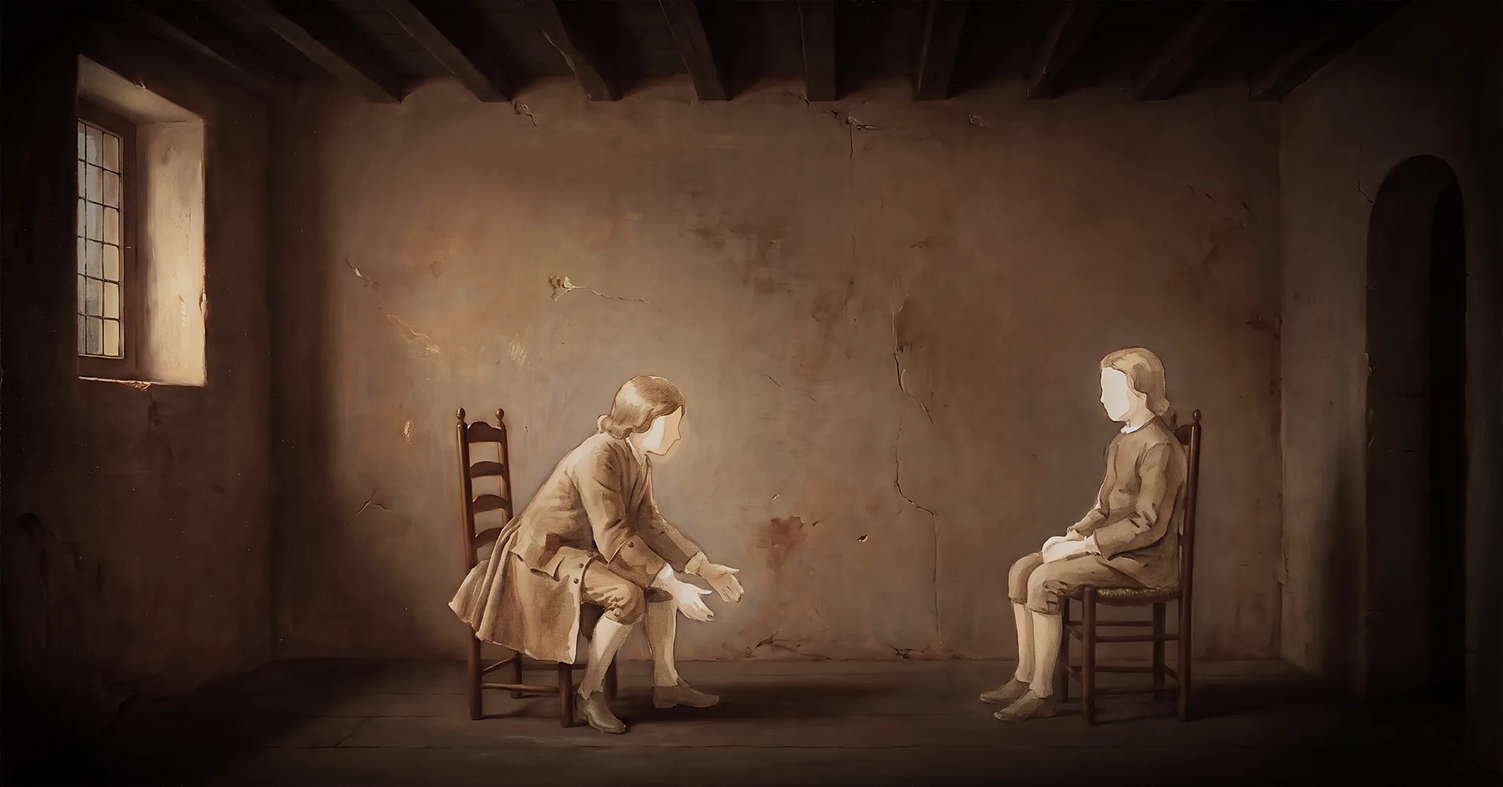
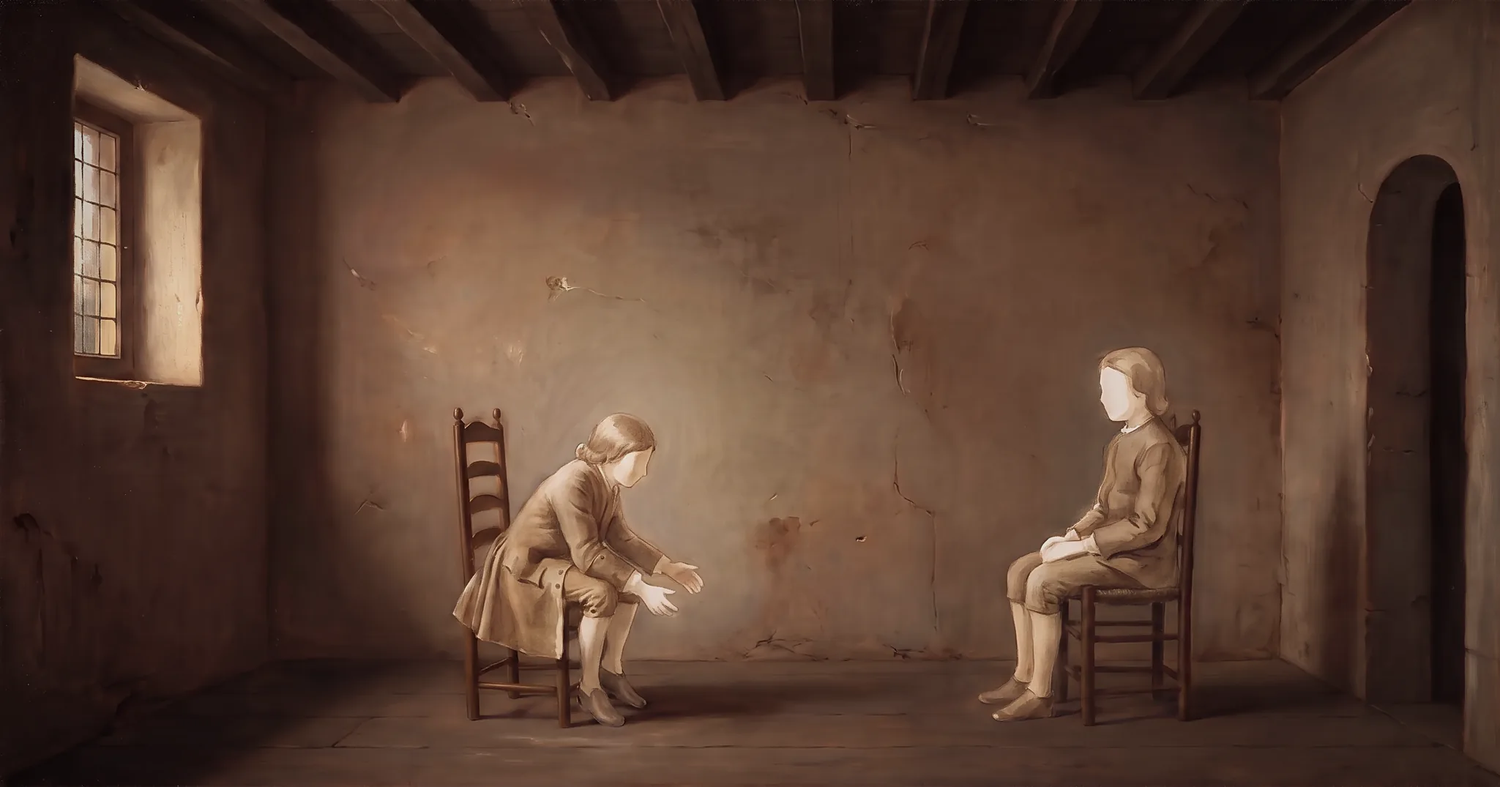
Build 268: room 3 repainted, Christian in colour, a passage between rooms
Claude-Session: https://claude.ai/code/session_017HrTSHVVMcxEhGjUti4Zrs

diff --git a/rooms.js b/rooms.js
@@ -12,7 +12,7 @@
 // Every room is ONE still picture, painted by the image model in the game's watercolour after its master (concept
 // notes in CLAUDE.md, "THE INTERPRETER'S HOUSE IN THE GAME"), quietened in code: assets/room-door.webp, room1..7.webp
 // (room3.webp is cut narrower). The people who belong to a room are in its picture; Christian and the Interpreter are
-// the game's watercolour figures coloured in the house's palette (room3-christian.webp; the Interpreter's own two pictures,
+// the game's watercolour figures coloured in the house's palette (room-christian.webp, Christian painted once in colour; the Interpreter's own two pictures,
 // room-interpreter.webp standing and room-interpreter-say.webp explaining), placed in each room, breathing in code. Everything that moves is code:
 // light, dust, water, gold, bubbles, fire, the brave man, the dreamer's trembling. 
 //
@@ -28,7 +28,7 @@ const RM = (() => {
   const darkOn = () => { try { return localStorage.getItem('pp-dark') === '1'; } catch (e) { return false; } };
 
   // the two visitors (sprites face LEFT as made; face 1 = turned to face right)
-  const VIS = { C: { n: 'room3-christian', ax: 150, g: 624, who: 'Christian', ph: 0, ct: 1.5, mul: .9, warm: [1.05, 1, .92] }, I: { n: 'room-interpreter', ax: 86, g: 611, who: I, ph: 1.7, say: { n: 'room-interpreter-say', ax: 153, g: 611, noSh: 1 } } };
+  const VIS = { C: { n: 'room-christian', ax: 92, g: 631, who: 'Christian', ph: 0, ct: 1.15, mul: .88, sat: .85, warm: [1, 1, 1] }, I: { n: 'room-interpreter', ax: 86, g: 611, who: I, ph: 1.7, say: { n: 'room-interpreter-say', ax: 153, g: 611, noSh: 1 } } };
   const BRAVE = { plain: { n: 'room5-brave', ax: 65, g: 519 }, armed: { n: 'room5-brave-armed', ax: 163, g: 519 } };
 
   let R = null, t = 0, ph = '', cam = { x: 0, to: 0 }, fade = 1, fadeTo = 0, after = null, toned = {}, startId = 'door', motes = [];
@@ -57,18 +57,18 @@ const RM = (() => {
 
   // ---------- figures ----------
   // each figure picture, coloured for the room it stands in (baked once per room: no canvas is touched while playing)
-  function toneOf(n, col, ct = 1.2, mul = 1) {
-    const key = n + '|' + col.join(',') + '|' + ct + '|' + mul; if (toned[key]) return toned[key];
+  function toneOf(n, col, ct = 1.2, mul = 1, sat0 = null) {
+    const key = n + '|' + col.join(',') + '|' + ct + '|' + mul + '|' + sat0; if (toned[key]) return toned[key];
     const im = pics[n]; if (!im) return null;
     const cv2 = document.createElement('canvas'); cv2.width = im.width; cv2.height = im.height; const x = cv2.getContext('2d');
-    x.drawImage(im, 0, 0); const d = x.getImageData(0, 0, im.width, im.height), p = d.data, sat = R && R.sat != null ? R.sat : .6;
+    x.drawImage(im, 0, 0); const d = x.getImageData(0, 0, im.width, im.height), p = d.data, sat = sat0 != null ? sat0 : R && R.sat != null ? R.sat : .6;
     let m = 0, cnt = 0; for (let i = 0; i < p.length; i += 4) if (p[i + 3] > 128) { m += (p[i] + p[i + 1] + p[i + 2]) / 3; cnt++; } m /= cnt || 1;
     for (let i = 0; i < p.length; i += 4) { const l = (p[i] + p[i + 1] + p[i + 2]) / 3; for (let k = 0; k < 3; k++) { let c = l + (p[i + k] - l) * sat; c = (m + (c - m) * ct) * mul; p[i + k] = Math.max(0, Math.min(255, c * col[k] / 255)); } }
     x.putImageData(d, 0, 0);
     return toned[key] = cv2;
   }
   function fig(c, spec, meta, x, y, face, k = 1, a = 1, col = R.tone || [255, 255, 255], who = null, ph0 = 0, bob = 0) {
-    const im = toneOf(spec, col, meta.ct, meta.mul); if (!im || a <= .01) return;
+    const im = toneOf(spec, col, meta.ct, meta.mul, meta.sat); if (!im || a <= .01) return;
     const sc = S / K * k, fx = u(x), fy = v(y), mv = who && talkMove(who);
     const sy = (1 + .006 * Math.sin(G.t / 62 + ph0)) * (mv ? mv.sy : 1);
     if (!meta.noSh && !R.noShadow) { c.globalAlpha = a; c.fillStyle = 'rgba(12,6,3,.18)'; c.beginPath(); c.ellipse(fx + 6 * face, fy - 1, 55 * sc, 6 * sc, 0, 0, 6.2832); c.fill(); }
@@ -88,7 +88,7 @@ const RM = (() => {
   const WALKT = new Map();
   function walker(c, x, frame, k) {
     const src = CHR[frame]; if (!src) { visitor(c, 'C', x, 1, k); return; }
-    let im = WALKT.get(src); if (!im) { im = document.createElement('canvas'); im.width = src.width; im.height = src.height; const q = im.getContext('2d'); q.drawImage(src, 0, 0); const d = q.getImageData(0, 0, im.width, im.height), p = d.data, col = [40, 36, 44]; for (let i = 0; i < p.length; i += 4) for (let j = 0; j < 3; j++) p[i + j] = p[i + j] * col[j] / 255; q.putImageData(d, 0, 0); WALKT.set(src, im); }
+    let im = WALKT.get(src); if (!im) { im = document.createElement('canvas'); im.width = src.width; im.height = src.height; const q = im.getContext('2d'); q.drawImage(src, 0, 0); const d = q.getImageData(0, 0, im.width, im.height), p = d.data, col = [58, 44, 36]; for (let i = 0; i < p.length; i += 4) for (let j = 0; j < 3; j++) p[i + j] = p[i + j] * col[j] / 255; q.putImageData(d, 0, 0); WALKT.set(src, im); }
     const sc = (790 * k * S) / 300, walkC = im;
     const fx = u(x), fy = v(R.FY);
     c.fillStyle = 'rgba(8,6,6,.35)'; c.beginPath(); c.ellipse(fx, fy - 1, 34, 4, 0, 0, 6.2832); c.fill();
@@ -154,7 +154,7 @@ const RM = (() => {
     },
     // 2 THE DUSTY PARLOUR (after Vermeer's Milkmaid): the broom raises the dust; the water lays it
     r2: {
-      pic: 'room2', FY: 1262, cam0: 140, tone: [300, 288, 268], toneC: [345, 315, 275], noShadow: 1,
+      pic: 'room2', FY: 1262, cam0: 140, tone: [300, 288, 268], noShadow: 1,
       enter() { this.dust = []; this.haze = .22; this.wet = []; const r = rngR(5); for (let i = 0; i < 70; i++) this.dust.push({ x: 300 + r() * 2800, y: 300 + r() * 900, vx: 0, vy: 0, s: 2 + r() * 5, a: .5 + r() * .5, p: r() * 7 }); },
       run() { talk([[N, 'He led him into a very large parlour, full of dust, because it was never swept.'], [TIP, 'Touch the broom.', 'broom']], () => { ph = 'sweep'; t = 0; G.state = 'auto'; }); },
       act(sx, sy) {
@@ -192,7 +192,7 @@ const RM = (() => {
     },
     // 3 PASSION AND PATIENCE (after Chardin's Soap Bubbles): the bag, the gold, the bubbles, the rags
     r3: {
-      pic: 'room3', FY: 1250, PW: 2566, cam0: 15, tone: [255, 255, 255],
+      pic: 'room3', FY: 1235, PW: 2561, cam0: 13, tone: [255, 255, 255],
       enter() {
         this.bag = { show: false, a: 0, tip: 0, empty: 0 }; this.coins = []; this.bubbles = []; this.great = null; this.rags = 0; pic('room3-rags');
       },
@@ -200,9 +200,9 @@ const RM = (() => {
         const self = this;
         talk([[N, 'In a little room sat two little children. The name of the eldest was Passion, and of the other, Patience.'], [C, 'Why is Passion so discontented?'], [I, 'He must wait for his best things till next year, but he will have all now. Patience is willing to wait.'], [N, 'Then one came to Passion, and brought him a bag of treasure.', null, () => { self.bag.show = true; }], [TIP, 'Touch the bag.', 'bag']], () => { ph = 'pour'; t = 0; G.state = 'auto'; if (audio()) note(79, .03, 1.6); });
       },
-      act(sx, sy) { if (G.act === 'bag' && (sx == null || near(sx, sy, 1325, 1210, 160))) next(true); },
+      act(sx, sy) { if (G.act === 'bag' && (sx == null || near(sx, sy, 1290, 1200, 160))) next(true); },
       upd() {
-        const B = { x: 1325, y: 1240 }, HP = { x: 1150, y: 1246 }, bag = this.bag;
+        const B = { x: 1290, y: 1230 }, HP = { x: 1120, y: 1234 }, bag = this.bag;
         if (bag.show) bag.a = Math.min(1, bag.a + .02);
         if (G.act === 'bag' && G.actT >= 70 && !G.ring) G.ring = ring(B.x, B.y - 30);
         if (ph === 'pour') {
@@ -225,8 +225,8 @@ const RM = (() => {
         this.bubbles = this.bubbles.filter(b => b.pop < 14);
         const g = this.great; if (g) { g.life++; g.r = Math.min(g.R, g.r + .47); if (!g.pop) { g.y -= 1.45 * smooth(0, 60, g.life); g.x += Math.sin(g.life / 70) * .8; if (g.life > g.L) { g.pop = 1; note(91, .02, 1.4); } } else g.pop++; }
       },
-      under(c) { if (this.rags > 0 && pics['room3-rags']) { c.globalAlpha = smooth(0, 1, this.rags); c.drawImage(pics['room3-rags'], u(720), v(580), 790 * S, 754 * S); c.globalAlpha = 1; } },
-      people(c) { visitor(c, 'I', 2440, -1, 1.22, 1, 6); visitor(c, 'C', 360, 1, 1.22); },
+      under(c) { if (this.rags > 0 && pics['room3-rags']) { c.globalAlpha = smooth(0, 1, this.rags); c.drawImage(pics['room3-rags'], u(700), v(600), 570 * S, 720 * S); c.globalAlpha = 1; } },
+      people(c) { visitor(c, 'I', 2410, -1, 1, 1, 10); visitor(c, 'C', 2140, -1); },
       over(c) { drawBag(c, this.bag); drawCoins(c, this.coins); for (const b of this.bubbles) bubble(c, u(b.x), v(b.y), b.r * S, b.pop); if (this.great) bubble(c, u(this.great.x), v(this.great.y), this.great.r * S, this.great.pop); },
     },
     // 4 THE FIRE FED WITH OIL (after La Tour's St Joseph the Carpenter): round the back of the wall
@@ -351,6 +351,35 @@ const RM = (() => {
       people(c) { c.globalAlpha = this.a; if (this.w > 0 || this.fr > 0) walker(c, this.x, Math.floor(this.fr) % Math.max(1, CHR.length), .58); else visitor(c, 'C', this.x, 1, .58); c.globalAlpha = 1; },
     },
   };
+  // FOLLOW THE INTERPRETER (owner, build 267: "Ok to do 1"): between two rooms a dark passage; the child holds to follow
+  // the Interpreter's candle ("he took him by the hand, and led him into ..."). Christian walks (his own walk pictures,
+  // dark), the Interpreter goes a step ahead with a candle, its light moving along the wall and the floor.
+  ROOMS.pass = {
+    pic: null, FY: 1160, cam0: 0, tone: [120, 92, 74], k: .82, PW: 2526,
+    enter() { this.p = 0; this.fr = 0; this.w = 0; this.st = 0; if (this.to && ROOMS[this.to].pic) pic(ROOMS[this.to].pic); },
+    run() { talk([[TIP, 'Hold to follow the Interpreter.', 'follow']], () => {}); },
+    act() {},
+    x() { return 380 + this.p * 1500; },
+    upd() {
+      if (G.act === 'follow') {
+        if (G.actT >= 50 && !hold() && !G.ring) G.ring = () => [u(this.x() + 420), v(820)];
+        if (hold()) { G.ring = null; this.w = Math.min(1, this.w + .06); } else this.w = Math.max(0, this.w - .06);
+        if (this.p >= 1) { next(true); G.state = 'auto'; goTo(this.to); }
+      } else this.w = Math.max(0, this.w - .03);
+      this.p = Math.min(1, this.p + .0042 * this.w); this.fr += .3 * this.w;
+      const step = Math.floor(this.fr / 9.5); if (step !== this.st) { this.st = step; noise(200, 1.5, .2, .06); noise(140, 1.2, .25, .04, .05); }
+    },
+    draw(c) {
+      const g = c.createLinearGradient(0, 0, 0, VH); g.addColorStop(0, '#0c0705'); g.addColorStop(.8, '#140c08'); g.addColorStop(1, '#0a0604'); c.fillStyle = g; c.fillRect(0, 0, VW, VH);
+      const ix = this.x() + 430, fl = 1 + .06 * Math.sin(G.t / 4.7) * Math.sin(G.t / 11), bob0 = Math.abs(Math.sin(this.fr * Math.PI / 9.5)) * 2 * this.w, lx = u(ix) + 30, ly = v(this.FY) - 124 - bob0;
+      // the candle's light on the passage wall and, flat, on the floor
+      glow(c, lx, ly, 330 * fl, [255, 170, 90], .2); c.save(); c.translate(lx, v(this.FY) + 2); c.scale(1, .12); glow(c, 0, 0, 380 * fl, [255, 170, 90], .32); c.restore();
+      const bob = Math.abs(Math.sin(this.fr * Math.PI / 9.5)) * 2 * this.w;
+      fig(c, VIS.I.n, VIS.I, ix, this.FY, 1, this.k, 1, this.tone, I, 1.7, bob);
+      walker(c, this.x(), Math.floor(this.fr) % Math.max(1, CHR.length), this.k);
+      glow(c, lx, ly, 26 * fl, [255, 226, 160], .7); c.fillStyle = 'rgba(255,240,200,.95)'; c.beginPath(); c.ellipse(lx, ly - 2, 1.6, 3.4, 0, 0, 6.2832); c.fill();
+    },
+  };
   const ORDER = ['door', 'r1', 'r2', 'r3', 'r4', 'r5', 'r6', 'r7', 'leave'];
   function rngR(seed) { let s = seed; return () => (s = (s * 16807) % 2147483647) / 2147483647; }
 
@@ -358,7 +387,7 @@ const RM = (() => {
   function drawBag(c, bag) {
     if (bag.a <= .01) return;
     const k = smooth(0, 1, bag.tip), e = bag.empty;
-    c.save(); c.globalAlpha = bag.a; c.translate(u(1325) + 12, v(1240)); c.rotate(-1.35 * k); c.translate(-12, 0); c.scale(1.6 * (1 - .38 * e), 1.6 * (1 - .12 * e));
+    c.save(); c.globalAlpha = bag.a; c.translate(u(1290) + 12, v(1230)); c.rotate(-1.35 * k); c.translate(-12, 0); c.scale(1.6 * (1 - .38 * e), 1.6 * (1 - .12 * e));
     c.fillStyle = 'rgba(12,6,3,.3)'; c.beginPath(); c.ellipse(2, 0, 16, 3, 0, 0, 6.2832); c.fill();
     const g = c.createLinearGradient(-15, 0, 15, 0); g.addColorStop(0, '#6e4b2e'); g.addColorStop(.5, '#4a301c'); g.addColorStop(1, '#24170c');
     c.fillStyle = g; c.beginPath(); c.moveTo(-5, -24); c.bezierCurveTo(-13, -21, -18, -12, -15, -4); c.quadraticCurveTo(-12, .5, 0, .5); c.quadraticCurveTo(12, .5, 15, -4); c.bezierCurveTo(18, -12, 13, -21, 5, -24); c.closePath(); c.fill();
@@ -403,6 +432,7 @@ const RM = (() => {
   }
   function goTo(id) {
     if (id === 'r6' && !darkOn()) id = 'leave';
+    if (R && R.id !== 'door' && R.id !== 'pass' && id !== 'pass') { ROOMS.pass.to = id; id = 'pass'; }
     after = id; fadeTo = 1; G.state = 'auto';
     if (audio()) { noise(220, 1.5, .25, .08, .2); noise(220, 1.5, .25, .07, .75); }
   }
@@ -427,7 +457,7 @@ const RM = (() => {
   function update() {
     G.t++; t++;
     if (G.act) G.actT++;
-    if (fadeTo === 1) { fade = Math.min(1, fade + .03); if (fade >= 1 && after) { const id = after; after = null; Promise.all([pic(ROOMS[id].pic)]).then(() => { enterRoom(id); fadeTo = 0; setTimeout(() => { if (RM.on && R && R.id === id) { ph = 'run'; R.run(); } }, 700); }); } }
+    if (fadeTo === 1) { fade = Math.min(1, fade + .03); if (fade >= 1 && after) { const id = after; after = null; Promise.all([ROOMS[id].pic ? pic(ROOMS[id].pic) : null]).then(() => { enterRoom(id); fadeTo = 0; setTimeout(() => { if (RM.on && R && R.id === id) { ph = 'run'; R.run(); } }, 700); }); } }
     else fade = Math.max(0, fade - .025);
     if (!R) return;
     cam.x += (cam.to - cam.x) * .03;
@@ -448,7 +478,8 @@ const RM = (() => {
     const c = ctx; c.setTransform(DPR, 0, 0, DPR, 0, 0);
     c.fillStyle = '#140c08'; c.fillRect(0, 0, VW, VH);
     const im = R && pics[R.pic];
-    if (im) {
+    if (R && R.id === 'pass') R.draw(c);
+    else if (im) {
       const w = R.PW * S, h = PH * S, x0 = u(0), y0 = v(0), bot = y0 + h;
       c.drawImage(im, x0, y0, w, h);
       if (bot < VH) { const hh = 60 * im.height / PH; c.save(); c.translate(0, 2 * bot); c.scale(1, -1); c.drawImage(im, 0, im.height - hh, im.width, hh, x0, bot - 60 * S, w, 60 * S); c.restore(); const g = c.createLinearGradient(0, bot - 10, 0, VH); g.addColorStop(0, 'rgba(14,8,5,.15)'); g.addColorStop(1, 'rgba(14,8,5,.9)'); c.fillStyle = g; c.fillRect(0, bot - 10, VW, VH - bot + 10); }
@@ -466,7 +497,7 @@ const RM = (() => {
     drawItems();
   }
 
-  const HOLDS = ['round', 'walkout'];
+  const HOLDS = ['round', 'walkout', 'follow'];
   const lines = []; // for the voice tool: every room's lines are written out in full above
   return { on: false, start, update, draw, touch, key, preload, HOLDS, darkOn, setDark: on => { try { localStorage.setItem('pp-dark', on ? '1' : '0'); } catch (e) {} }, lines,
     peek: () => ({ room: R && R.id, ph, t, cam: Math.round(cam.x), fade: +fade.toFixed(2), r3: R && R.id === 'r3' ? { coins: R.coins.length, rags: +R.rags.toFixed(2) } : null }) };

diff --git a/index.html b/index.html
@@ -156,7 +156,7 @@ body.portrait #rot{display:block}
     <button class="btn" id="again">Walk again</button>
   </div>
   <button id="snd" aria-label="Sound on or off">♪</button>
-  <div id="build">build 267 · Nov 17 2026</div>
+  <div id="build">build 268 · Nov 17 2026</div>
 </div></div>
 <div id="rot">Turn your phone sideways for a bigger picture</div>
 <script>
@@ -2549,7 +2549,7 @@ document.getElementById('on2').onclick = () => SL.on ? go3() : HL.on ? goRoom('d
 </script>
 <script src="slough.js?v=259"></script>
 <script src="hill.js?v=267"></script>
-<script src="rooms.js?v=266"></script>
+<script src="rooms.js?v=268"></script>
 <script src="keepsakes.js?v=261"></script>
 <script src="editor.js?v=261"></script>
 </body>

diff --git a/story-lab.html b/story-lab.html
@@ -3,4 +3,4 @@
 <title>Pilgrim's Progress</title>
 <!-- The game moved to the main page in build 119. This page only sends old links (and Home Screen icons) on to it. -->
 <script>location.replace('./' + location.search + location.hash);</script>
-<p><a href="./">Pilgrim's Progress</a> <span id="build">build 267 · Nov 17 2026</span></p>
+<p><a href="./">Pilgrim's Progress</a> <span id="build">build 268 · Nov 17 2026</span></p>

diff --git a/CLAUDE.md b/CLAUDE.md
@@ -35,7 +35,7 @@ A gentle side-scrolling story walk for kids ages 7 to 10, following Bunyan's *Th
 ## Working with the owner
 
 - **Repo `Twhidbey/pilgrims-progress`, branch `main`. Pushing `main` publishes the game** (GitHub Pages, https://twhidbey.github.io/pilgrims-progress/, 1 to 2 minutes). Commit and push after every change, then tell the owner it is live; a phone may show an old copy, so suggest `?v=N`. **Always give two links when a build is live (owner, build 187: "can you output [the editor link] by default and make note in notes"):** the game, `https://twhidbey.github.io/pilgrims-progress/?v=N`, and the editor link, `https://twhidbey.github.io/pilgrims-progress/?edit&v=N` (skip arrows, see Testing); add `&level=2` or `&level=3` when the change is in that level.
-- **Build stamp** (`id="build"`, bottom right): `build N · date` in `index.html` and `story-lab.html`. Bump N on **every** push that changes the game, so one number means one push. Keep the form `id="build">... build N` (the page's self-update reads it). **Currently build 267.** The two script tags at the end of `index.html` carry `?v=N` (`slough.js?v=`, `hill.js?v=`): set them to the build that last changed each file, so phones fetch the new copy. Several chats push at once: `git fetch` and rebase on `origin/main` just before pushing, and take the next number after whatever is there.
+- **Build stamp** (`id="build"`, bottom right): `build N · date` in `index.html` and `story-lab.html`. Bump N on **every** push that changes the game, so one number means one push. Keep the form `id="build">... build N` (the page's self-update reads it). **Currently build 268.** The two script tags at the end of `index.html` carry `?v=N` (`slough.js?v=`, `hill.js?v=`): set them to the build that last changed each file, so phones fetch the new copy. Several chats push at once: `git fetch` and rebase on `origin/main` just before pushing, and take the next number after whatever is there.
 - **SPEND AS LITTLE AS POSSIBLE (owner, build 106: "can you minimize spending - it's been pretty expensive for me last few days").** Video about 56 cents a try; a picture about 15 cents (`gemini-3-pro-image`); voice about a cent a line. **Before any paid call: say the cost and wait for a yes; keep the running total in `HANDOFF.md`.** Ways to save, in order: (1) do it in code first (breathing, sway, cloth and hair movement, small moves by warping a still, mirroring, tinting, reusing a figure); (2) build first and last frames from frames we already have; (3) draft pictures on `gemini-2.5-flash-image` (about a third of the price), the pro model only for the final; (4) show the owner a still before any video; (5) get two clips from one video (play backwards or back and forth); (6) write video prompts that pass the safety filter first time (no "sunk", "drowning", "thrashing", "desperate", "frightened"; say "thick sticky mud", "heaves", "cross and grumbling"); (7) a shorter video if the API offers one cheaper (not yet checked).
 - **Keep `CLAUDE.md` and `HANDOFF.md` updated after every change.** The repo is public: no names, emails or other personal details in notes, code or commits.
 - **Players:** kids 7 to 10, mostly on an iPhone. Gentle: no lives, no game over, read-aloud words, short simple sentences.
@@ -352,6 +352,8 @@ Owner: "is there a way to get pause and get menu that allows us to navigate away
 **Build 265: a second critique, its fixes (nothing spent).** Each visitor has his own contrast and depth in `toneOf` (Christian `ct` 1.5, `mul` .9, a little warmer: `VIS.C.warm`; room 2 lifts him with `toneC`); the Interpreter's speaking pose is laid OVER his folded one (no see-through double) and swaps in about a sixth of a second; one small soft shadow per figure (none in room 2's bright room); room 3's pair stand apart (Christian 2235, the Interpreter in the arch at 2420); room 7's man on the cloud is a tall soft light on the empty wall (1650, 330), with no grey ball while the room is dark; leaving, he walks on (a little quicker, as the book has him run) out of the picture, as dark as his standing figure; room 5's camera comes back for the welcome and its ring is lower; room 3's purse is bigger, its glints sharper; room 4's far side keeps both men in the frame; room 2's haze no longer washes the picture flat.
 
 **Build 266: the visitors in scale with each room's people (owner: "In the child one the kids are too big relative to interpreter and pilgrim - can you run through all rooms with this in mind").** The image model painted room 3's seated boys as big as men, so the two visitors are drawn 1.22 times their size there, and placed apart: Christian by the window on the left, facing in, the Interpreter in the arch on the right, the boys and the gold between them (`cam0` 15). Room 7's man in bed was also large: the visitors are 1.22 there too, moved right (2470, 2720) and the camera with them (`cam0` 185), so the Interpreter's head no longer sits in the painted light like a halo. The others checked against their painted people and left as they are: room 1 (the servant), 2 (the damsel and the sweeper), 4 (the man with the bucket), 5 (the crowd, `k` .58), 6 (the man in the cage), the door (`k` .58 against the door). **Rule: in each room, measure a painted standing adult (or a seated one, about .7 of standing) and size the visitors to match.**
+
+**Build 268: room 3 repainted, Christian in colour, a passage between rooms (owner: "Looks too crowded with them on each side - can we re draw to make room for them? . Also can we colorize or even shade Christian just a bit so he fits in environments better - I'd pay up to $.50 for this but use it sparingly please . Ok to do 1 also"; two pictures, about 26 cents, both right first time).** (1) **Room 3 painted again** from its own picture: the boys real children (seated, their heads about a third of the picture above the floor), Passion at a fifth of the way across, Patience at half, empty floor, the arch at three quarters; Passion in rags on a white strip at the side in the same call. `assets/room3.webp` (2561 wide, `PW`), `room3-rags.webp` (a soft-edged patch at P 700,600, 570 x 720: the fine boy covered by wall and floor from beside him, Poisson-blended and toned to the surroundings, the ragged boy, mirrored to face Patience, laid in). The two visitors at normal size on the right, Christian on the floor, the Interpreter in the arch; the bag and the gold moved to the new boy's feet. (2) **Christian painted once in colour** (`assets/room-christian.webp`, from his standing frame 30, the same figure in muted brown-ochre and olive with gentle shading, light from the left; face softened to a plain profile; mirrored to face left like the room figures; `room3-christian.webp` removed): used in every room, with his own gentle contrast (`ct` 1.15, `mul` .88, colour .85). In the dark passage and when leaving he still walks in his grey walk pictures, toned warm-dark. (3) **Follow the Interpreter** (`ROOMS.pass`, act `'follow'`, a hold): after every room but the door, a dark passage: "Hold to follow the Interpreter."; the Interpreter goes a step ahead carrying a candle in his folded hands, its light on the wall and flat on the floor, Christian walking behind in his own walk; footsteps; then the next room fades in. It breaks the talk at each change of room, so no stretch now runs more than five lines without the child doing something.
 
 **Nothing is built** (but the house, above) The other chat designs the picture first; then a file `gate.js` (object like `SL`/`HL`), a title button 4, `go4()`, Level 3's end card "Go on".
 

diff --git a/HANDOFF.md b/HANDOFF.md
@@ -10,6 +10,8 @@ The game is `index.html` (Level 1 in the page, Level 2 in `slough.js`; no build 
 
 **Build 255 (small-tweaks chat): the gate's wall and door softer still, with less contrast. See `CLAUDE.md`, "Build 255". Nothing spent.**
 
+**Build 268 (room 3 chat): room 3 repainted with child-sized boys, Christian painted once in colour for the house, a candle-lit passage between rooms (hold to follow the Interpreter). About 26 cents (the owner allowed up to 50).**
+
 **Build 266 (room 3 chat): the visitors sized to each room's painted people (rooms 3 and 7 larger). Nothing spent.**
 
 **Build 265 (room 3 chat, overnight): a second critique round on the house and its fixes (figures' tone and shadows, the Interpreter's pose swap, room 7's light, the leaving walk). Nothing spent.**
@@ -227,7 +229,7 @@ Older handovers (builds 41 to 137, with the picture and video prompts used for H
 
 **Build 144: the title page is sized by the picture, so it fits an iPhone held upright (`CLAUDE.md`, Phones). Nothing spent.**
 
-**Spending since build 106 (the owner asked to keep it low): about $9.30.** (Build 267: the oak painted again whole, about 15 cents, the owner said yes. Build 261: six room pictures and the brave man, about 91 cents; build 263: the house's voices, about 55 cents. build 264: the Interpreter and room 2, about 26 cents. Tonight's budget from the owner: up to $3, so about $1.80 used.) After build 228: Good-will, one picture of him in two poses, standing and reaching (about 15 cents, the owner said yes; right first time but for the standing pose facing right, to be mirrored, and small drawn eyes to be washed out; `concept/goodwill-two-poses.png`, not yet in the game). Build 214: the two mire videos (about $1.12). Build 197: the kneel video (about 56 cents, right first time). Build 183: the mountain painted again at the image model's highest size (one picture, roughly 25 cents; the exact price of a 4K picture is not known). Build 177: the painted mountain for Level 3 (one picture, about 15 cents). The oak painted again, whole (about 15 cents, the owner asked). Build 164: the shorter script recorded (32 reworded and missing Level 3 lines, with retakes, about 45 cents). The painted oak for Level 3's opening (one picture, about 15 cents, the owner asked for it; right first time). Build 156: Evangelist's walk video (about 56 cents, right first time) and two picture tries at levelling his feet (about 19 cents, both failed; done in code instead). A second reference study, of distant fire and smoke (about 15 cents, the owner said yes; shown to the owner, not in the repo; its lessons are in `CLAUDE.md`, Level 3). One reference painting of the burning hill for the fire's design (about 15 cents, the owner said yes; shown to the owner, not in the game or the repo; what it teaches is in `CLAUDE.md`, Level 3). Build 143 (the owner said yes to Level 3's small costs): Wiseman's voice designed and 37 lines recorded (about 40 cents), three pictures of Wiseman (one cheap draft and two on the pro model, about 35 cents). Build 149: Wiseman's walk video (about 56 cents, right first time). Build 143 (the owner said yes to Level 3's small costs): Wiseman's voice designed and 37 lines recorded (about 40 cents), three pictures of Wiseman (one cheap draft and two on the pro model, about 35 cents).
+**Spending since build 106 (the owner asked to keep it low): about $9.56.** (Build 267: the oak painted again whole, about 15 cents, the owner said yes. Build 261: six room pictures and the brave man, about 91 cents; build 263: the house's voices, about 55 cents. build 264: the Interpreter and room 2, about 26 cents. Tonight's budget from the owner: up to $3, so about $1.80 used; build 268: room 3 and Christian in colour, about 26 cents of a 50-cent allowance.) After build 228: Good-will, one picture of him in two poses, standing and reaching (about 15 cents, the owner said yes; right first time but for the standing pose facing right, to be mirrored, and small drawn eyes to be washed out; `concept/goodwill-two-poses.png`, not yet in the game). Build 214: the two mire videos (about $1.12). Build 197: the kneel video (about 56 cents, right first time). Build 183: the mountain painted again at the image model's highest size (one picture, roughly 25 cents; the exact price of a 4K picture is not known). Build 177: the painted mountain for Level 3 (one picture, about 15 cents). The oak painted again, whole (about 15 cents, the owner asked). Build 164: the shorter script recorded (32 reworded and missing Level 3 lines, with retakes, about 45 cents). The painted oak for Level 3's opening (one picture, about 15 cents, the owner asked for it; right first time). Build 156: Evangelist's walk video (about 56 cents, right first time) and two picture tries at levelling his feet (about 19 cents, both failed; done in code instead). A second reference study, of distant fire and smoke (about 15 cents, the owner said yes; shown to the owner, not in the repo; its lessons are in `CLAUDE.md`, Level 3). One reference painting of the burning hill for the fire's design (about 15 cents, the owner said yes; shown to the owner, not in the game or the repo; what it teaches is in `CLAUDE.md`, Level 3). Build 143 (the owner said yes to Level 3's small costs): Wiseman's voice designed and 37 lines recorded (about 40 cents), three pictures of Wiseman (one cheap draft and two on the pro model, about 35 cents). Build 149: Wiseman's walk video (about 56 cents, right first time). Build 143 (the owner said yes to Level 3's small costs): Wiseman's voice designed and 37 lines recorded (about 40 cents), three pictures of Wiseman (one cheap draft and two on the pro model, about 35 cents).
 
 **Build 143, Level 3's paid parts:** the owner: "Level 3 let's do it all except big costs - maybe make some art requests with google image but check with me before the big video request". Wiseman's voice was designed from: "A prosperous, smooth-spoken English gentleman in his fifties. A rich, warm, confident voice of middle pitch, polished and persuasive, friendly on the surface and a little condescending, like a man used to being listened to and sure he knows best. Unhurried and well-spoken, with a plain educated English accent. Pleasant, never villainous or sinister." (All lines recorded since build 164; build 197 checked: none missing.) Wiseman's painting: `gemini-3-pro-image`, references Obstinate's and Pliable's standing pictures, prompt: the same loose grey watercolour; a well-to-do gentleman in his fifties, comfortably stout, strict side-on profile facing left, one gloved hand on a cane, the other open in easy advice, no burden, no mud; a long full cloak of fine wool with a deep soft fur collar over a long smooth coat tied with a broad smooth cloth sash (not a rope), fine leggings, tall polished riding boots, a broad-brimmed hat with a round crown; nothing ragged, no lace, ruffs, buckles, buttons, jewellery; a plain wash face (it still drew a faint eye, softened in code). The first pro try made him look poor (rope belt, wrapped legs): say "expensive and well kept". The picture is not in the repo until the owner likes it. **Next, after the owner's yes:** cut it out (`tools/cutout.py`), a walk video from it (about 56 cents), Evangelist's walk (about 56 cents). Say the cost and wait for a yes before every paid call.
 
